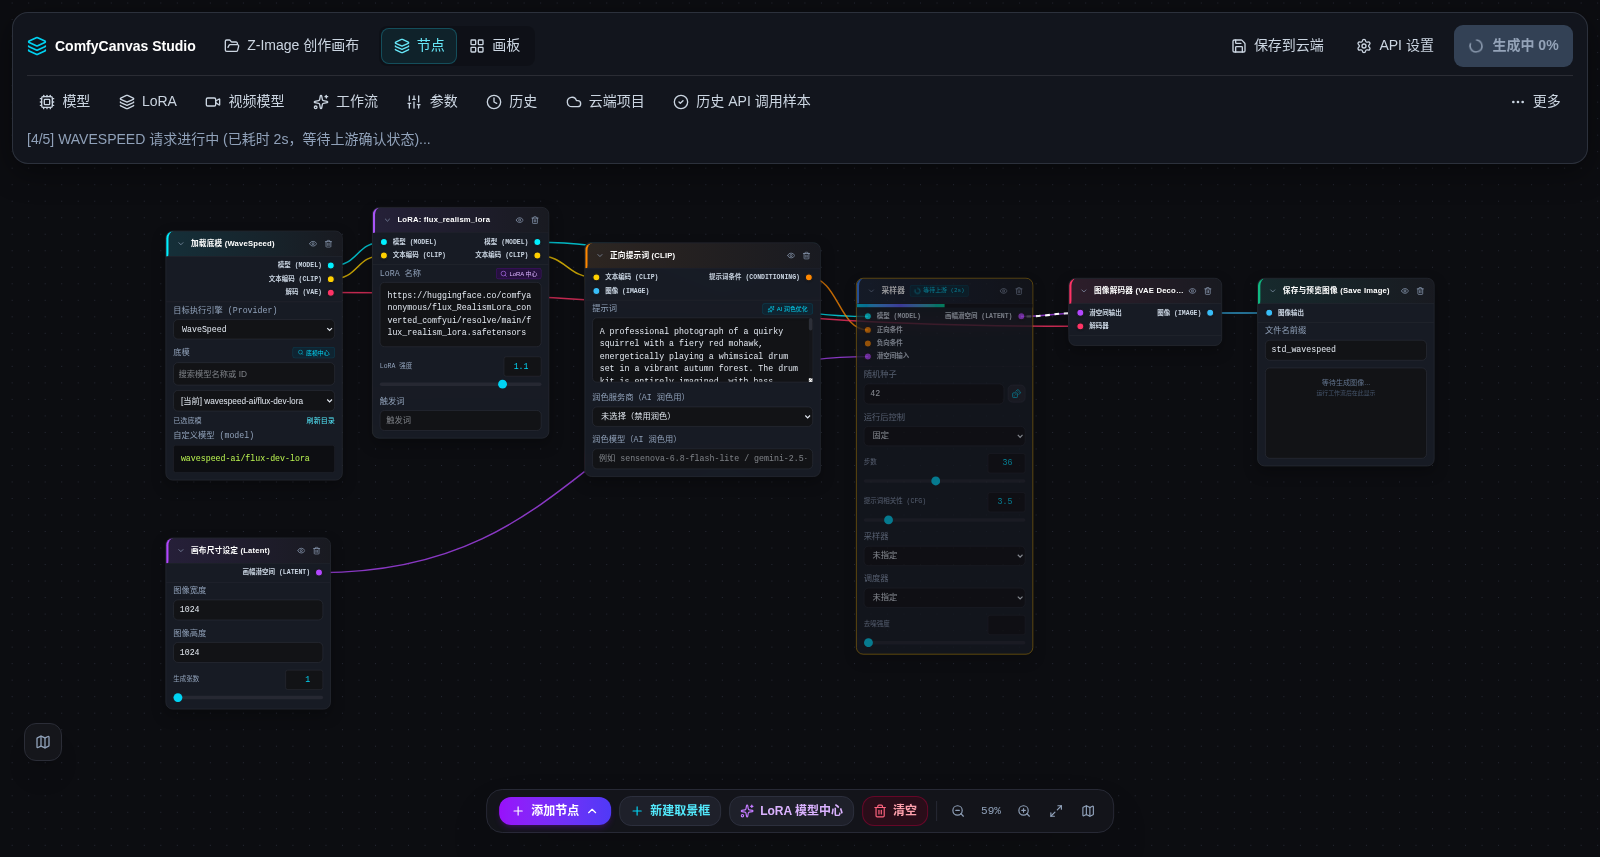
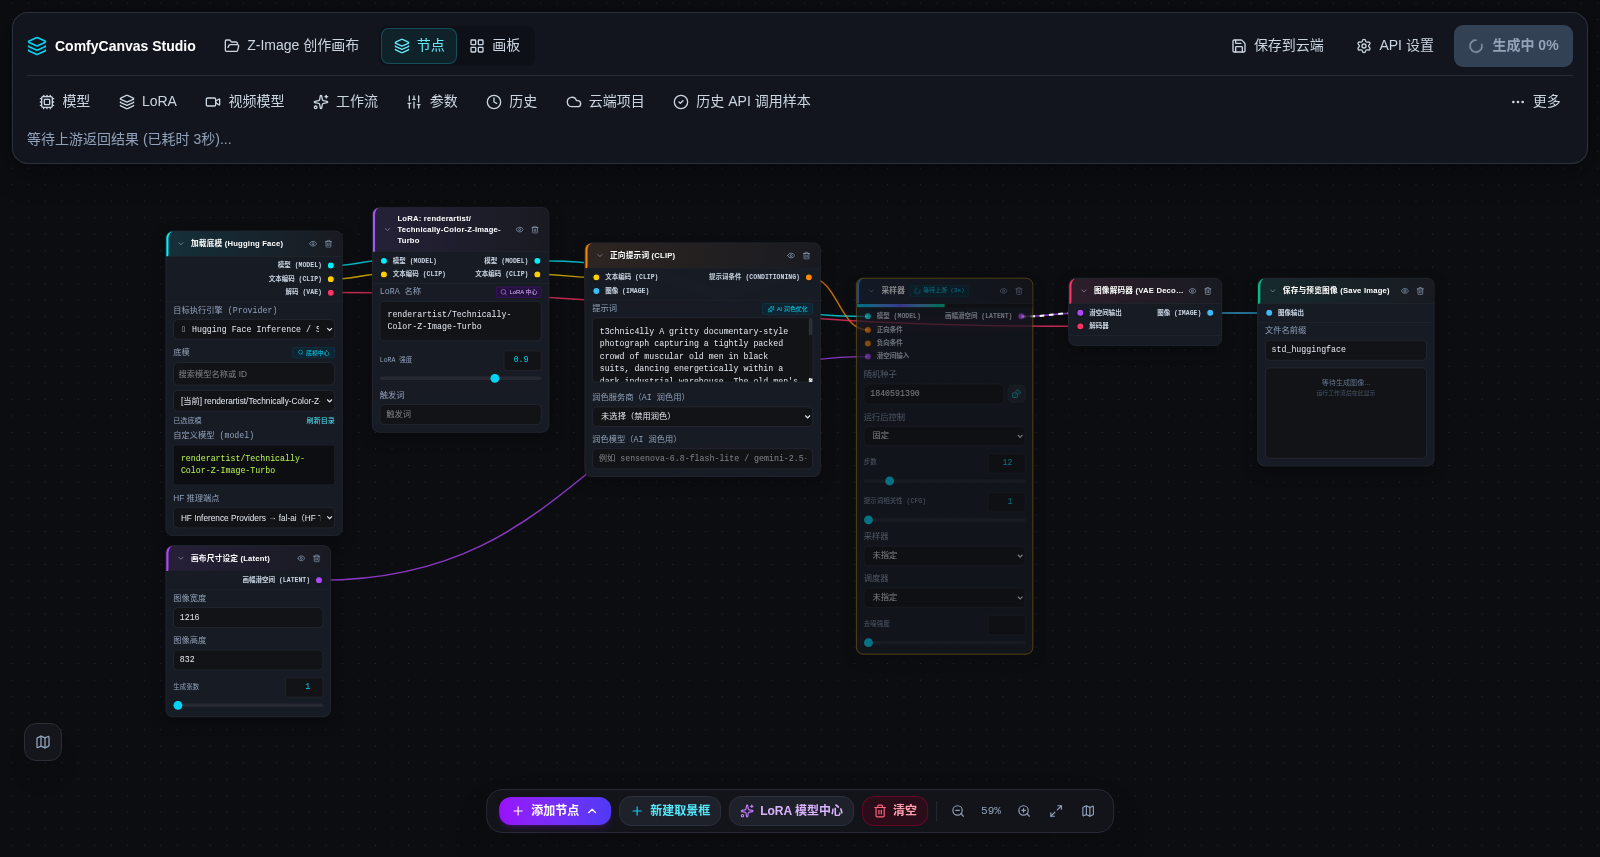
fix(ui6): mask toast key fragments in 07/08, filter [4/5] status in App, and retake 18

diff --git a/src/App.tsx b/src/App.tsx
@@ -105,6 +105,21 @@ import {
   LORA_LOADER_TYPES,
 } from './utils/providerLabels';
 
+export function formatExecutionStatusText(statusText: string, elapsedSec: number): string {
+  if (
+    statusText.startsWith('[4/5]') ||
+    statusText.includes('正在向') ||
+    statusText.includes('等待渲染') ||
+    statusText.includes('请求进行中') ||
+    statusText.includes('官方算力')
+  ) {
+    return elapsedSec < 2
+      ? '正在提交请求至云端服务商...'
+      : `等待上游返回结果 (已耗时 ${elapsedSec}秒)...`;
+  }
+  return statusText;
+}
+
 export default function App() {
   // Model Schema arrivals re-render inspector/canvas send badges.
   React.useSyncExternalStore(subscribeModelSchema, modelSchemaVersion);
@@ -1299,10 +1314,7 @@ export default function App() {
         (percent, statusText, details) => {
           setExecutionProgress(percent);
           const elapsed = Math.max(1, Math.floor((Date.now() - runStartTime) / 1000));
-          const cleanStatus = statusText.includes('正在向') || statusText.includes('等待渲染')
-            ? (elapsed < 2 ? '正在提交请求至云端服务商...' : `等待上游返回结果 (已耗时 ${elapsed}秒)...`)
-            : statusText;
-          setExecutionStatusText(cleanStatus);
+          setExecutionStatusText(formatExecutionStatusText(statusText, elapsed));
           if (Array.isArray(details?.omissions) && details.omissions.length) {
             workflowOmissions = details.omissions;
             setToast({type:'warning', title:'请求参数未提交项', message:workflowOmissions.map(item => `${item.field}=${item.value}：${item.reason}`).join('；')});

diff --git a/src/components/ui6Interactions.test.tsx b/src/components/ui6Interactions.test.tsx
@@ -21,6 +21,7 @@ import { ComfyGuideModal } from './ComfyGuideModal';
 import { CloudProjectModal } from './CloudProjectModal';
 import { CanvasManagerModal } from './CanvasManagerModal';
 import { AssetManagerModal } from './AssetManagerModal';
+import { formatExecutionStatusText } from '../App';
 
 describe('NodeErrorDisclosure & summarizeErrorMessage (Project Transparency Rules)', () => {
   it('formats headline strictly as provider + HTTP status (if parsed) + verbatim first line with no guessed diagnosis', () => {
@@ -316,5 +317,25 @@ describe('BackendSettingsModal key-page links & key status failure reporting', (
     });
     c1.remove();
     c2.remove();
+  });
+
+  it('formatExecutionStatusText rewrites engineer progress strings to human-friendly copy', () => {
+    // Stage 4 initial submit (< 2s)
+    expect(
+      formatExecutionStatusText('[4/5] 正在向 WAVESPEED 官方算力提交任务并等待渲染回传...', 1)
+    ).toBe('正在提交请求至云端服务商...');
+
+    // Stage 4 ongoing request (>= 2s)
+    expect(
+      formatExecutionStatusText('[4/5] WAVESPEED 请求进行中 (已耗时 2s，等待上游确认状态)...', 2)
+    ).toBe('等待上游返回结果 (已耗时 2秒)...');
+
+    // Stage 4 ongoing request at 5s
+    expect(
+      formatExecutionStatusText('[4/5] NOVITA 请求进行中 (已耗时 5s，等待上游确认状态)...', 5)
+    ).toBe('等待上游返回结果 (已耗时 5秒)...');
+
+    // Non-progress messages left unchanged
+    expect(formatExecutionStatusText('准备环境...', 0)).toBe('准备环境...');
   });
 });

diff --git a/docs/evidence/2026-11-05/ui.md b/docs/evidence/2026-11-05/ui.md
@@ -102,8 +102,8 @@
   - **严禁主观猜词**：重构 `summarizeErrorMessage`，彻底移除依据关键字猜测原因的逻辑。标题严格遵循项目规范：`服务商 + HTTP 状态码 (若解析到) + 上游原始报错第一行`，杜绝臆造任何上游未作出的诊断。
   - **端点与状态透传**：`NodeItem` 从执行跟踪与节点状态中提取真实的 `endpoint`（如 `/api/wavespeed/generate`）与 `statusCode`（如 400、402），完整透传至 `NodeErrorDisclosure`。当字段不存在时不渲染空白行（无空行泄露）。
   - **分阶段运行反馈 (Staged Feedback)**：
-    - 阶段一（提交中 0-1s）：`正在提交请求 (正在调度模型与权重)...` / 节点显示 `正在提交...`。
-    - 阶段二（等待上游已耗时计时）：`等待上游返回 (已耗时 Xs)...` / 节点显示 `等待上游 (Xs)`（见截图 `18-staged-run-feedback.png`）。
+    - 阶段一（提交中 0-1s）：`正在提交请求至云端服务商...` / 节点显示 `正在提交...`。
+    - 阶段二（等待上游已耗时计时）：`等待上游返回结果 (已耗时 N秒)...` / 节点显示 `等待上游 (Ns)`（见截图 `18-staged-run-feedback.png`）。
     - 阶段三（终态响应）：成功显示 `生成完成 (provider) · 耗时 Xs`；失败显示 `生成失败: [错误摘要]`。
     - **计时器组件化解耦**：将秒级递增计时器完全封装入独立子组件 `<NodeRunElapsed state={node.state} type={node.type} />`，严格消除生产代码中的 `try/catch` 漏洞，保持 `NodeItem` Hook 列表极其稳定，同时完全兼容单元测试中直接调用 `NodeItem(props)` 的场景。
   - 提供 `复制诊断信息` 按钮，一键拷贝完整服务商、端点、状态码与原始响应体。
@@ -180,7 +180,7 @@
 - [`15-parameter-inspector.png`](./ui/15-parameter-inspector.png)：去工程黑话后的右侧参数总控台抽屉（纯中文提示词工作台标题）
 - [`16-spatial-mode.png`](./ui/16-spatial-mode.png)：画板（Spatial）模式实拍（主按钮自适应新建取景框居首，选区按钮文字为 `生成此选区画板`，提示词标题为 `正向提示词`，右侧抽屉提示词标题纯中文）
 - [`17-spatial-empty-onboarding.png`](./ui/17-spatial-empty-onboarding.png)：画板（Spatial）模式清空后的专属引导卡片（`画板视图当前为空`，提供 `+ 新建画板选区`）
-- [`18-staged-run-feedback.png`](./ui/18-staged-run-feedback.png)：图像运行中的分阶段反馈实录（`等待上游 (2s)` 与状态栏实时已耗时计时）
+- [`18-staged-run-feedback.png`](./ui/18-staged-run-feedback.png)：图像运行中的分阶段反馈实录（采样器节点实时显示 `等待上游 (2s)`，顶栏状态栏实时显示友好人话 `等待上游返回结果 (已耗时 2秒)...`）
 
 ---
 
